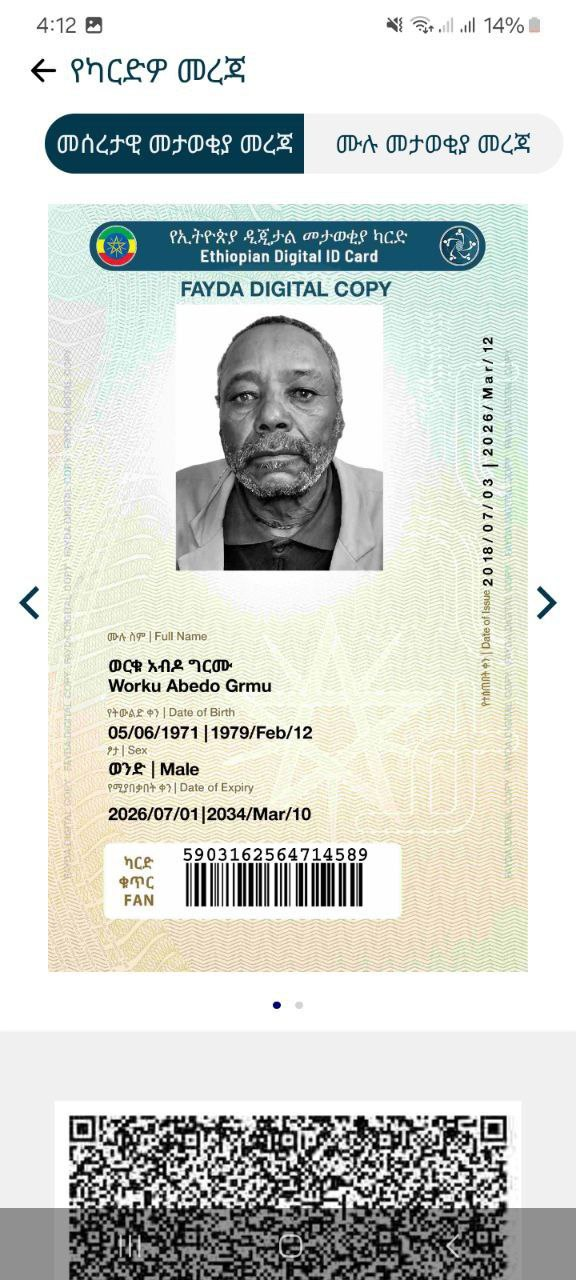
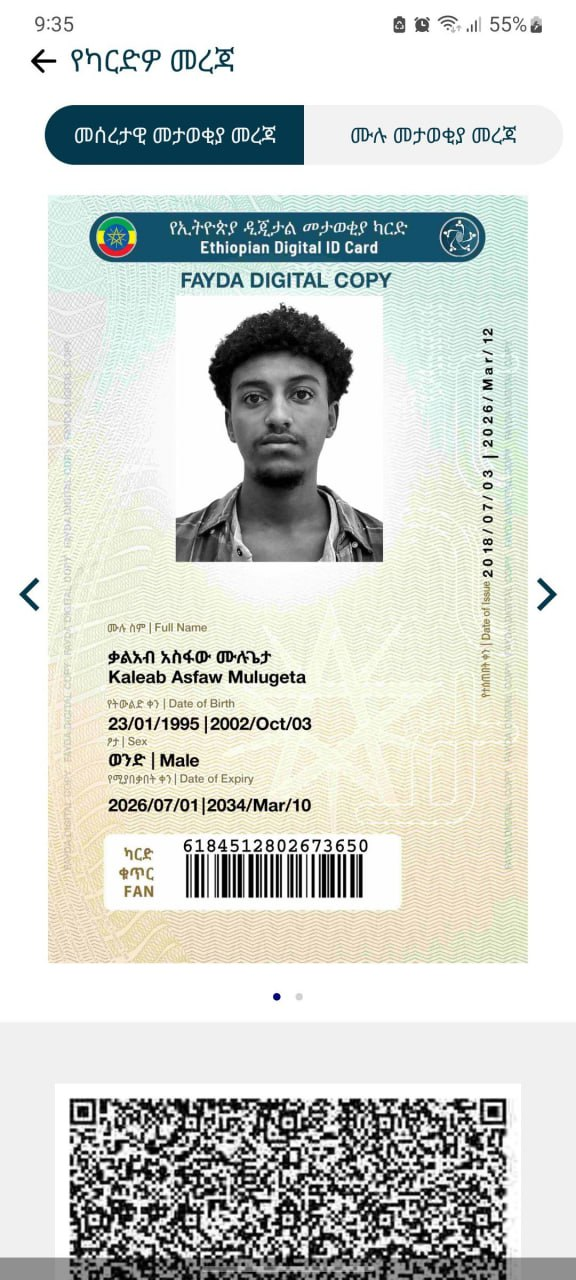
feat: Improve Amharic name extraction with targeted cropping and enhance barcode rendering robustness in templates.

diff --git a/final_id_result.html b/final_id_result.html
@@ -747,17 +747,17 @@
           <div class="field" style="margin-bottom:8px;">
             <span class="label">ሙሉ ስም | Full Name</span>
             <div class="val-am">
-              ውርኩ አበዶ ግርሙ
+              ቃለአብ አስፋው ሙሉገታ
             </div>
             <div class="val-en">
-              Worku Abedo Grmu
+              Kaleab Asfaw Mulugeta
             </div>
           </div>
           <div class="field">
             <span class="label">የትውልድ ቀን | Date of Birth</span>
             <div class="val-inline">
               
-              05/06/1971 | 1979/02/12
+              23/01/1995 | 2002/10/03
               
             </div>
           </div>
@@ -768,7 +768,7 @@
           <div class="field">
             <span class="label">የሚቆይበት ቀን | Date of Expiry</span>
             <div class="val-expiry">
-              2026/07/01 | 2034/Mar/10
+              — | —
             </div>
           </div>
         </div>
@@ -778,9 +778,9 @@
             <span>ካርድ</span><span>ቁጥር</span><span>FAN</span>
           </div>
           <div class="barcode-box">
-            <span class="fan-number-top">—</span>
+            <span class="fan-number-top">6184512802673650</span>
             <svg class="barcode-svg" id="barcodesvg_0"
-              data-fcn="—"></svg>
+              data-fcn="6184512802673650"></svg>
           </div>
         </div>
 
@@ -818,7 +818,7 @@
             </div>
             <div class="field">
               <span class="label">የመታወቂያ ቁጥር | FIN Number</span>
-              <div class="val-inline">—</div>
+              <div class="val-inline">276870385310</div>
             </div>
             <br>
             <span style="display:inline-block;overflow:hidden;line-height:0;margin-top:-10px;">
@@ -853,11 +853,15 @@
     // Barcodes
     document.querySelectorAll('.barcode-svg').forEach(svg => {
       const fcn = svg.dataset.fcn;
-      if (fcn) {
-        JsBarcode(svg, fcn, {
-          format: "CODE128", lineColor: "#000",
-          width: 1.3, height: 30, displayValue: false, margin: 0
-        });
+      if (fcn && fcn !== '—') {
+        try {
+          JsBarcode(svg, fcn, {
+            format: "CODE128", lineColor: "#000",
+            width: 1.3, height: 30, displayValue: false, margin: 0
+          });
+        } catch (e) {
+          console.warn('Barcode rendering failed for value:', fcn, e);
+        }
       }
     });
 

diff --git a/result.html b/result.html
@@ -790,7 +790,7 @@
           <div class="barcode-box">
             <span class="fan-number-top">{{ card.data.fcn }}</span>
             <svg class="barcode-svg" id="barcodesvg_{{ loop.index0 }}"
-              data-fcn="{{ card.data.fcn | replace(' ','') }}"></svg>
+              data-fcn="{% if card.data.barcode_data and card.data.barcode_data != '—' %}{{ card.data.barcode_data }}{% else %}{{ card.data.fcn | replace(' ','') }}{% endif %}"></svg>
           </div>
         </div>
 
@@ -867,11 +867,15 @@
     // Barcodes
     document.querySelectorAll('.barcode-svg').forEach(svg => {
       const fcn = svg.dataset.fcn;
-      if (fcn) {
-        JsBarcode(svg, fcn, {
-          format: "CODE128", lineColor: "#000",
-          width: 1.3, height: 30, displayValue: false, margin: 0
-        });
+      if (fcn && fcn !== '—') {
+        try {
+          JsBarcode(svg, fcn, {
+            format: "CODE128", lineColor: "#000",
+            width: 1.3, height: 30, displayValue: false, margin: 0
+          });
+        } catch (e) {
+          console.warn('Barcode rendering failed for value:', fcn, e);
+        }
       }
     });
 

diff --git a/main.py b/main.py
@@ -507,6 +507,55 @@ def extract_front(image, qr_data=None):
     name_words = buckets["name"]
     if name_words:
         name_words.sort(key=lambda x: x['top'])
+        
+        # --- NEW LOGIC: Explicit Amharic Bounding Box Crop ---
+        # 1. Find the bottom of the "Full Name" label logic (or start of bucket)
+        label_bottom_y = name_words[0]['top'] - 10 
+        
+        # 2. Find the top of the English name (first line that is purely English)
+        eng_top_y = h_proc # Default to bottom of image
+        for w in name_words:
+            # If word is mostly English letters and has decent length
+            if len(re.sub(r'[^a-zA-Z]', '', w['text'])) > 3:
+                eng_top_y = w['top']
+                break
+                
+        # 3. Define the bounding box for Amharic (between label and English)
+        am_box_top = max(0, label_bottom_y)
+        am_box_bottom = eng_top_y
+        
+        # Only proceed with this targeted crop if we have a reasonable vertical gap
+        if am_box_bottom - am_box_top > 15:
+            # Find horizontal bounds from all words in this vertical gap
+            am_cand_words = [w for w in name_words if am_box_top <= w['top'] <= am_box_bottom]
+            if am_cand_words:
+                min_x = max(0, min(w['left'] for w in am_cand_words) - 15)
+                max_x = min(w_proc, max(w['left'] + w['w'] for w in am_cand_words) + 15)
+                
+                if max_x - min_x > 50:
+                    am_roi = proc_full[am_box_top:am_box_bottom, min_x:max_x]
+                    
+                    # Optional: Save crop for debugging
+                    # cv2.imwrite("debug_amh_crop.png", am_roi)
+                    
+                    # Clean and OCR the specific crop
+                    roi_z = cv2.resize(am_roi, None, fx=2, fy=2, interpolation=cv2.INTER_CUBIC)
+                    th1 = cv2.adaptiveThreshold(roi_z, 255, cv2.ADAPTIVE_THRESH_GAUSSIAN_C, cv2.THRESH_BINARY, 21, 15)
+                    raw_am_crop = pytesseract.image_to_string(th1, lang="amh", config='--psm 6').strip()
+                    
+                    # Clean the result
+                    clean_crop = re.sub(r'[a-zA-Z0-9\(\)\{\}\[\]\.\,\|\!\?\-\_\/\\\»]', ' ', raw_am_crop)
+                    clean_crop = re.sub(r'[\u1369-\u1371]', ' ', clean_crop) 
+                    am_words = [w for w in clean_crop.replace("፣", " ").replace("።", " ").split() if sum(1 for c in w if 0x1200 <= ord(c) <= 0x137F) / max(1, len(w)) > 0.6]
+                    
+                    if am_words and len(" ".join(am_words)) > 3:
+                        data["name_am"] = " ".join(am_words[:4])
+                        # Filter out garbage
+                        garbage_tokens = ["ርዐ", "ከህከ", "ፚ", "ቺጅ", "ጩወ", "ፍነ", "ርን", "ቺ", "ጩ", "ኚ", "ጯ"] 
+                        if any(g in data["name_am"] for g in garbage_tokens):
+                            data["name_am"] = "—"
+
+        # --- Standard Line-by-Line Processing (Fallback for English and missing Amharic) ---
         n_lines = []
         cl = [name_words[0]]
         for w in name_words[1:]:
@@ -523,56 +572,45 @@ def extract_front(image, qr_data=None):
             l_left = min(w['left'] for w in nl) - 15
             l_right = max(w['left'] for w in nl) + 400
             
-            # Expand ROI upwards to catch Amharic if it's slightly higher than English
             y1, y2 = max(0, l_top - 60), min(h_proc, l_bot + 20)
             x1, x2 = max(0, l_left), min(w_proc, l_right)
             if (y2-y1) < 20 or (x2-x1) < 40: continue
             
             roi_g = proc_full[y1:y2, x1:x2]
-            # Multiple thresholding styles for better noise rejection
             roi_z = cv2.resize(roi_g, None, fx=2, fy=2, interpolation=cv2.INTER_CUBIC)
-            th1 = cv2.adaptiveThreshold(roi_z, 255, cv2.ADAPTIVE_THRESH_GAUSSIAN_C, cv2.THRESH_BINARY, 21, 15)
-            # Second threshold for thick/darker text
-            _, th2 = cv2.threshold(roi_z, 140, 255, cv2.THRESH_BINARY)
             
-            # Use multi-pass OCR on the same ROI
-            pass1 = pytesseract.image_to_string(th1, lang="amh", config='--psm 6').strip()
-            pass2 = pytesseract.image_to_string(th2, lang="amh", config='--psm 6').strip()
-            am_n = pass1 + " " + pass2
-            
+            # Extract English
             en_n = pytesseract.image_to_string(roi_z, lang="eng", config='--psm 7').strip()
-            
-            # Clean Amharic (Reject words with > 30% non-Amharic characters)
-            def is_legit_amh(w):
-                if len(w) < 2 or len(w) > 13: return False
-                amh_chars = sum(1 for c in w if 0x1200 <= ord(c) <= 0x137F)
-                if amh_chars / len(w) < 0.7: return False
-                # Nonsense repetitions
-                if sum(1 for i in range(len(w)-2) if w[i] == w[i+1] == w[i+2]) > 0: return False
-                return True
-
-            am_c = re.sub(r'[a-zA-Z0-9\(\)\{\}\[\]\.\,\|\!\?\-\_\/\\\»]', ' ', am_n)
-            am_c = re.sub(r'[\u1369-\u1371]', ' ', am_c) 
-            am_words = [w for w in am_c.replace("፣", " ").replace("።", " ").split() if is_legit_amh(w)]
-            
-            if am_words: am_parts.append(" ".join(am_words))
-            
-            # Clean English
             en_words = [w for w in en_n.split() if int(len(re.findall(r'[a-z]', w.lower()))) > 1]
             en_words = [w for w in en_words if w.lower() not in ["name", "full", "id", "card", "national"]]
             if en_words: en_parts.append(" ".join(en_words))
+            
+            # Fallback Amharic extraction if our precise crop failed
+            if data["name_am"] == "—":
+                th1 = cv2.adaptiveThreshold(roi_z, 255, cv2.ADAPTIVE_THRESH_GAUSSIAN_C, cv2.THRESH_BINARY, 21, 15)
+                _, th2 = cv2.threshold(roi_z, 140, 255, cv2.THRESH_BINARY)
+                pass1 = pytesseract.image_to_string(th1, lang="amh", config='--psm 6').strip()
+                pass2 = pytesseract.image_to_string(th2, lang="amh", config='--psm 6').strip()
+                am_n = pass1 + " " + pass2
+                am_c = re.sub(r'[a-zA-Z0-9\(\)\{\}\[\]\.\,\|\!\?\-\_\/\\\»]', ' ', am_n)
+                am_words = [w for w in am_c.replace("፣", " ").replace("።", " ").split() if len(w) > 1 and sum(1 for c in w if 0x1200 <= ord(c) <= 0x137F) / len(w) > 0.6]
+                if am_words: am_parts.append(" ".join(am_words))
 
-        if am_parts:
+        # Compile Amharic fallback if needed
+        if data["name_am"] == "—" and am_parts:
             seen = set()
             u_am = []
             for p in am_parts:
                 for w in p.split():
-                    if w not in seen:
-                        # Stricter noise rejection
-                        if not any(noise in w for noise in ["ርዐ", "ቦዩህ", "ነሃ", "ልከ", "ከህ", "ከህከ"]):
-                            u_am.append(w); seen.add(w)
+                    if w not in seen and not any(noise in w for noise in ["ርዐ", "ቦዩህ", "ነሃ", "ልከ", "ከህ", "ከህከ"]):
+                        u_am.append(w); seen.add(w)
             data["name_am"] = " ".join(u_am[:4])
+            
+            garbage_tokens = ["ርዐ", "ከህከ", "ፚ", "ቺጅ", "ጩወ", "ፍነ", "ርን", "ቺ", "ጩ", "ኚ", "ጯ"] 
+            if any(g in data["name_am"] for g in garbage_tokens) or re.search(r'[፠-⠿]', data["name_am"]) or len(data["name_am"]) < 3:
+                data["name_am"] = "—"
         
+        # Compile English
         if en_parts:
             seen = set()
             u_en = []
@@ -581,18 +619,6 @@ def extract_front(image, qr_data=None):
                     if w.lower() not in seen:
                         u_en.append(w); seen.add(w.lower())
             data["name_en"] = " ".join(u_en[:4])
-
-        # Noise rejection for Amharic
-        # We classify as noise if it has too many symbols or known OCR artifacts
-        if data["name_am"] != "—":
-            # Identify obvious garbage symbols that haunt OCR but aren't in names
-            garbage_tokens = ["ርዐ", "ከህከ", "ፚ", "ቺጅ", "ጩወ", "ፍነ", "ርን", "ቺ", "ጩ", "ኚ", "ጯ"] 
-            if any(g in data["name_am"] for g in garbage_tokens):
-                data["name_am"] = "—"
-            elif re.search(r'[፠-⠿]', data["name_am"]): # Punctuation/Symbols only
-                data["name_am"] = "—"
-            elif len(data["name_am"]) < 3: 
-                 data["name_am"] = "—"
 
     # --- Other Fields ---
     for key in ["dob", "sex", "expiry", "issue", "fcn"]:
@@ -782,15 +808,24 @@ def extract_back(image):
     data["phone"] = found_phone or "—"
 
     # 1.5 FIN Extraction (Back)
+    full_text = " ".join(full_back_ocr['text'])
+    
+    # Primary Search: Next to "FIN" label
     for i in range(len(full_back_ocr['text'])):
         txt = full_back_ocr['text'][i].strip().lower()
         if "fin" in txt or "የመታወቂያ" in txt or "ቁጥር" in txt:
             for j in range(i, min(i+8, len(full_back_ocr['text']))):
                 num_cand = re.sub(r'[^0-9]', '', full_back_ocr['text'][j])
-                if 10 <= len(num_cand) <= 16:
+                if 12 <= len(num_cand) <= 16:
                     data["fin"] = num_cand
                     break
             if data["fin"] != "—": break
+
+    # Fallback Search: Find any 12+ digit sequence anywhere in the text
+    if data["fin"] == "—":
+        fin_match = re.search(r'\b(\d{4}[\s-]?\d{4}[\s-]?\d{4})\b', full_text)
+        if fin_match:
+            data["fin"] = re.sub(r'[^0-9]', '', fin_match.group(1))
 
     # 2. Address (Full-page label-anchored extraction)
     address_label_y = None
@@ -972,6 +1007,14 @@ def export_html(data):
         print("result.html not found, falling back to simple output.")
         return
 
+    # Smart fallback for the 16-digit number
+    actual_id = "—"
+    for k in ["id_number", "fan", "barcode_data"]:
+        val = data.get(k)
+        if val and val != "—" and len(val) >= 10:
+            actual_id = val
+            break
+
     # Mock cards data for result.html
     # It expects: cards: [{ photo: '', photo_warm: '', qr: '', data: { ... } }]
     cards = [{
@@ -987,9 +1030,9 @@ def export_html(data):
             "sex_am": data.get("sex_am", ""),
             "expiry_greg": data.get("expiry_greg") or data.get("expiry") or data.get("expiry_eth") or "—",
             "expiry_eth": data.get("expiry_eth", "—"),
-            "fcn": data.get("fan", "—"),
+            "fcn": actual_id,
             "fin": data.get("fin", "—"),
-            "barcode_data": data.get("barcode_data", "—"),
+            "barcode_data": actual_id,
             "phone": data.get("phone", ""),
             "nat_en": "Ethiopian",
             "nat_am": "ኢትዮጵያዊ",
